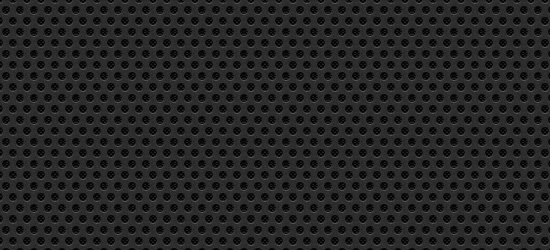
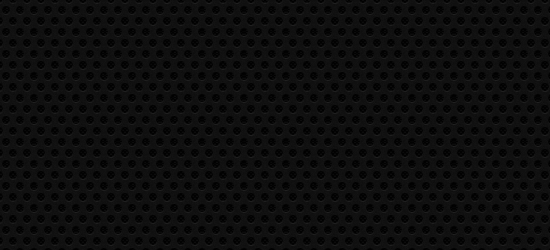
dots agagin

diff --git a/css/bootstrap.css b/css/bootstrap.css
@@ -16,7 +16,7 @@ html {
 body {
 	/*background-color: #000000 !important;*/
   background: url('../images/dots.jpg');
-     background-size: 400px 400px;
+     background-size: 550px 250px;
      background-repeat: repeat;
      background-attachment: fixed;
     display: compact;
